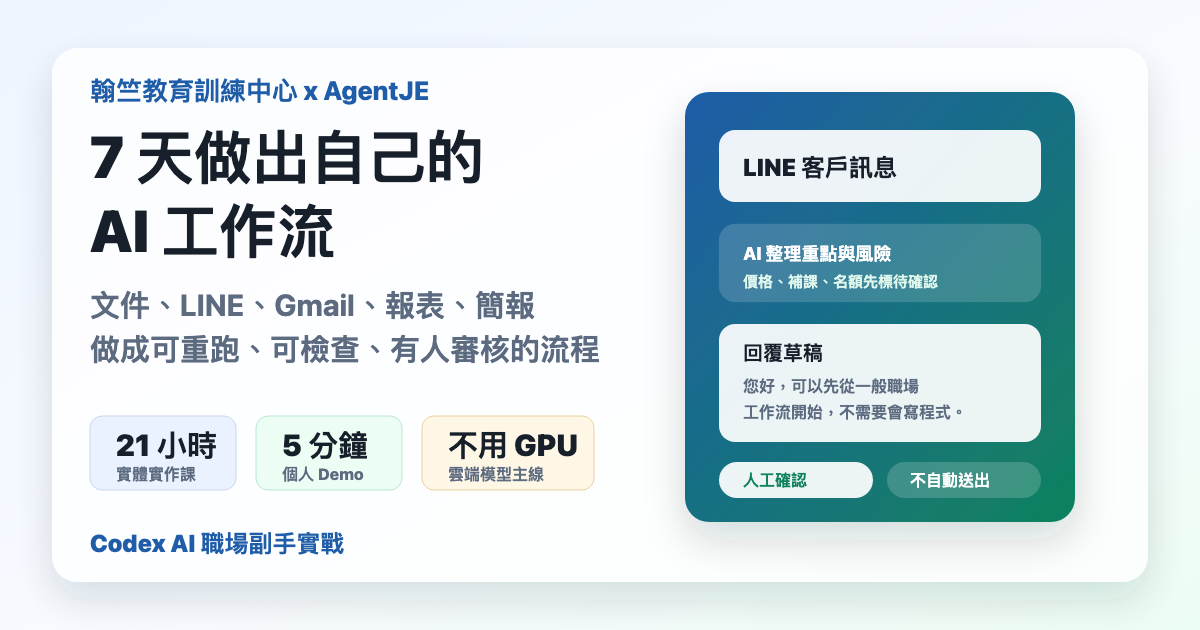
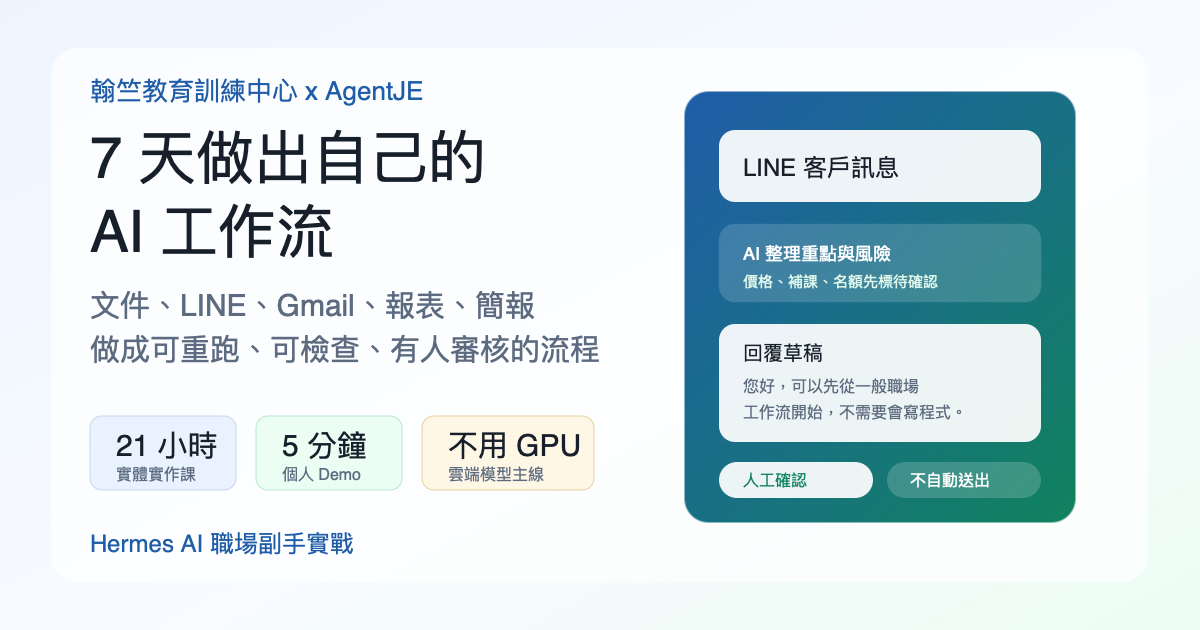
Update Hermes course preview

diff --git a/index.html b/index.html
@@ -4,8 +4,8 @@
   <meta charset="utf-8">
   <meta name="viewport" content="width=device-width, initial-scale=1">
   <script>document.documentElement.classList.replace("no-js", "js");</script>
-  <title>Hermes x Codex AI 職場副手實戰 | 翰竺教育訓練中心 x AgentJE</title>
-  <meta name="description" content="給第一次想用 Hermes 與 Codex 的職場新手。21 小時實體課，從 Hermes Desktop 應用程式開始，學會交辦、執行、檢查與安全交付。">
+  <title>Hermes AI 職場副手實戰 | 翰竺教育訓練中心 x AgentJE</title>
+  <meta name="description" content="給第一次想用 Hermes 做事的職場新手。21 小時實體課，從 Hermes Desktop 應用程式開始，學會開任務、選資料、檢查 AI 成果與安全交付。">
   <meta name="robots" content="index, follow">
   <meta name="theme-color" content="#1f5da8">
   <link rel="canonical" href="https://nrps9909.github.io/hanzhu-hermes-codex-course-preview/">
@@ -15,23 +15,23 @@
   <meta property="og:type" content="website">
   <meta property="og:locale" content="zh_TW">
   <meta property="og:site_name" content="翰竺教育訓練中心 x AgentJE">
-  <meta property="og:title" content="Hermes x Codex AI 職場副手實戰">
-  <meta property="og:description" content="不用先會寫程式。帶一台筆電，從 Hermes Desktop App 開始，學會用 Codex 做文件、報表、網站、回覆草稿與可重跑工作流。">
+  <meta property="og:title" content="Hermes AI 職場副手實戰">
+  <meta property="og:description" content="不用先會寫程式。帶一台筆電，從 Hermes Desktop App 開始，學會開任務、選資料、檢查成果與保存可重跑工作流。">
   <meta property="og:url" content="https://nrps9909.github.io/hanzhu-hermes-codex-course-preview/">
   <meta property="og:image" content="https://nrps9909.github.io/hanzhu-hermes-codex-course-preview/assets/course-landing-og.png">
   <meta property="og:image:secure_url" content="https://nrps9909.github.io/hanzhu-hermes-codex-course-preview/assets/course-landing-og.png">
   <meta property="og:image:type" content="image/png">
   <meta property="og:image:width" content="1200">
   <meta property="og:image:height" content="630">
-  <meta property="og:image:alt" content="Hermes x Codex AI 職場副手實戰課程分享圖">
+  <meta property="og:image:alt" content="Hermes AI 職場副手實戰課程分享圖">
   <meta name="twitter:card" content="summary_large_image">
-  <meta name="twitter:title" content="Hermes x Codex AI 職場副手實戰">
-  <meta name="twitter:description" content="21 小時實體課，讓 AI 新手用 Hermes 操作 Codex，做出自己的職場副手工作流。">
+  <meta name="twitter:title" content="Hermes AI 職場副手實戰">
+  <meta name="twitter:description" content="21 小時實體課，讓 AI 新手用 Hermes 開任務、看狀態、留紀錄，做出自己的職場副手工作流。">
   <meta name="twitter:image" content="https://nrps9909.github.io/hanzhu-hermes-codex-course-preview/assets/course-landing-og.png">
-  <meta name="twitter:image:alt" content="Hermes x Codex AI 職場副手實戰課程分享圖">
-  <script type="application/ld+json">{"@context":"https://schema.org","@type":"Course","name":"Hermes x Codex AI 職場副手實戰","courseCode":"HJ-AI-101","description":"21 小時實體實作課，給職場新手學會用 Hermes Desktop 操作 Codex，完成可檢查、可重跑、有人確認的 AI 工作成果。","inLanguage":"zh-Hant","provider":{"@type":"Organization","name":"翰竺教育訓練中心 x AgentJE","url":"http://www.itms.tw/ibmindex.jsp"},"timeRequired":"PT21H","educationalLevel":"Beginner","audience":{"@type":"Audience","audienceType":"行政、業務、客服、專案、主管與一般職場工作者"},"coursePrerequisites":"可自帶 Mac 或 Windows 筆電，能登入帳號、開瀏覽器並安裝基本工具。不需要先會寫程式。","teaches":["Hermes Desktop App 入門","Codex App 入門","Codex 任務交辦","任務票據","可重跑工作流","LINE 回覆草稿","Gmail 與文件整理","人工確認與資料安全"],"hasCourseInstance":{"@type":"CourseInstance","courseMode":"onsite","courseWorkload":"7 次課,每次 3 小時,共 21 小時","instructor":{"@type":"Person","name":"AgentJE"}},"@id":"https://nrps9909.github.io/hanzhu-hermes-codex-course-preview/#course","url":"https://nrps9909.github.io/hanzhu-hermes-codex-course-preview/","image":"https://nrps9909.github.io/hanzhu-hermes-codex-course-preview/assets/course-landing-og.png"}</script>
-    <script type="application/ld+json" id="webpage-structured-data">{"@context":"https://schema.org","@type":"WebPage","@id":"https://nrps9909.github.io/hanzhu-hermes-codex-course-preview/#webpage","url":"https://nrps9909.github.io/hanzhu-hermes-codex-course-preview/","name":"Hermes x Codex AI 職場副手實戰 | 翰竺教育訓練中心 x AgentJE","description":"21 小時實體課,把文件、LINE 回覆、Gmail、報表和簡報做成可重跑、可檢查、有人審核的 AI 工作流。","inLanguage":"zh-Hant","image":"https://nrps9909.github.io/hanzhu-hermes-codex-course-preview/assets/course-landing-og.png","isPartOf":{"@type":"WebSite","name":"翰竺教育訓練中心","url":"http://www.itms.tw/ibmindex.jsp"},"about":{"@id":"https://nrps9909.github.io/hanzhu-hermes-codex-course-preview/#course"},"publisher":{"@type":"Organization","name":"翰竺教育訓練中心 x AgentJE","url":"http://www.itms.tw/ibmindex.jsp","sameAs":["https://itms.kktix.cc/","https://www.facebook.com/ibmtrainingitms/"]}}</script>
-  <script type="application/ld+json" id="breadcrumb-structured-data">{"@context":"https://schema.org","@type":"BreadcrumbList","itemListElement":[{"@type":"ListItem","position":1,"name":"翰竺教育訓練中心","item":"http://www.itms.tw/ibmindex.jsp"},{"@type":"ListItem","position":2,"name":"Hermes x Codex AI 職場副手實戰","item":"https://nrps9909.github.io/hanzhu-hermes-codex-course-preview/"}]}</script>
+  <meta name="twitter:image:alt" content="Hermes AI 職場副手實戰課程分享圖">
+  <script type="application/ld+json">{"@context":"https://schema.org","@type":"Course","name":"Hermes AI 職場副手實戰","courseCode":"HJ-AI-101","description":"21 小時實體實作課，給職場新手學會用 Hermes Desktop App 開任務、選資料、檢查 AI 成果，完成可檢查、可重跑、有人確認的工作流。","inLanguage":"zh-Hant","provider":{"@type":"Organization","name":"翰竺教育訓練中心 x AgentJE","url":"http://www.itms.tw/ibmindex.jsp"},"timeRequired":"PT21H","educationalLevel":"Beginner","audience":{"@type":"Audience","audienceType":"行政、業務、客服、專案、主管與一般職場工作者"},"coursePrerequisites":"可自帶 Mac 或 Windows 筆電，能登入帳號、開瀏覽器並安裝基本工具。不需要先會寫程式。","teaches":["Hermes Desktop App 入門","Hermes 任務交辦","Codex 執行成果檢查","任務票據","可重跑工作流","LINE 回覆草稿","Gmail 與文件整理","人工確認與資料安全"],"hasCourseInstance":{"@type":"CourseInstance","courseMode":"onsite","courseWorkload":"7 次課,每次 3 小時,共 21 小時","instructor":{"@type":"Person","name":"AgentJE"}},"@id":"https://nrps9909.github.io/hanzhu-hermes-codex-course-preview/#course","url":"https://nrps9909.github.io/hanzhu-hermes-codex-course-preview/","image":"https://nrps9909.github.io/hanzhu-hermes-codex-course-preview/assets/course-landing-og.png"}</script>
+    <script type="application/ld+json" id="webpage-structured-data">{"@context":"https://schema.org","@type":"WebPage","@id":"https://nrps9909.github.io/hanzhu-hermes-codex-course-preview/#webpage","url":"https://nrps9909.github.io/hanzhu-hermes-codex-course-preview/","name":"Hermes AI 職場副手實戰 | 翰竺教育訓練中心 x AgentJE","description":"21 小時實體課,把文件、LINE 回覆、Gmail、報表和簡報做成可重跑、可檢查、有人審核的 AI 工作流。","inLanguage":"zh-Hant","image":"https://nrps9909.github.io/hanzhu-hermes-codex-course-preview/assets/course-landing-og.png","isPartOf":{"@type":"WebSite","name":"翰竺教育訓練中心","url":"http://www.itms.tw/ibmindex.jsp"},"about":{"@id":"https://nrps9909.github.io/hanzhu-hermes-codex-course-preview/#course"},"publisher":{"@type":"Organization","name":"翰竺教育訓練中心 x AgentJE","url":"http://www.itms.tw/ibmindex.jsp","sameAs":["https://itms.kktix.cc/","https://www.facebook.com/ibmtrainingitms/"]}}</script>
+  <script type="application/ld+json" id="breadcrumb-structured-data">{"@context":"https://schema.org","@type":"BreadcrumbList","itemListElement":[{"@type":"ListItem","position":1,"name":"翰竺教育訓練中心","item":"http://www.itms.tw/ibmindex.jsp"},{"@type":"ListItem","position":2,"name":"Hermes AI 職場副手實戰","item":"https://nrps9909.github.io/hanzhu-hermes-codex-course-preview/"}]}</script>
   <script type="application/ld+json" id="faq-structured-data">
   {
     "@context": "https://schema.org",
@@ -51,7 +51,7 @@
         "name": "上課要準備什麼?",
         "acceptedAnswer": {
           "@type": "Answer",
-          "text": "帶可以登入與安裝工具的筆電，準備 Hermes Desktop App 與 OpenAI / Codex 帳號。LINE、Gmail 或 Google Drive 是後續練習場景，不是第一天的壓力來源。"
+          "text": "帶可以登入與安裝工具的筆電，準備 Hermes Desktop App。模型帳號或 API key 依課前指引準備即可，LINE、Gmail 或 Google Drive 是後續練習場景，不是第一天的壓力來源。"
         }
       },
       {
@@ -633,7 +633,7 @@
   <header class="topbar">
     <div class="wrap topbar-inner">
       <a class="brand" href="#hero" aria-label="回到頁首">
-        Hermes x Codex AI 職場副手實戰
+        Hermes AI 職場副手實戰
         <small>翰竺教育訓練中心 x AgentJE</small>
       </a>
       <nav class="nav" aria-label="頁面導覽">
@@ -648,9 +648,9 @@
     <section id="hero" class="hero">
       <div class="wrap">
         <div class="hero-copy">
-          <p class="eyebrow">給第一次想用 Hermes 操作 Codex 做事的人</p>
-          <h1><span class="h1-line">Hermes x Codex</span><span class="h1-line">職場副手實戰</span></h1>
-          <p class="lead">這不是 CLI 安裝課。帶一台筆電，用 Hermes Desktop 把 Codex 跑起來，做文件、報表、網站、LINE 草稿與可重跑工作流。</p>
+          <p class="eyebrow">給第一次想用 Hermes 叫 AI 做事的人</p>
+          <h1><span class="h1-line">Hermes AI</span><span class="h1-line">職場副手實戰</span></h1>
+          <p class="lead">這不是 CLI 安裝課，也不是要學一堆 Codex 名詞。帶一台筆電，從 Hermes Desktop App 開始，學會開任務、選資料、看成果，把文件、報表、網站、LINE 草稿與可重跑工作流做出來。</p>
           <div class="actions">
             <a class="button" href="#reserve" data-track-action="reserve_hero" data-track-label="hero">先問我適不適合</a>
             <a class="button secondary" href="#outcomes" data-track-action="view_outcomes" data-track-label="hero">看 3 個成果</a>
@@ -658,8 +658,8 @@
           <p class="hero-note">課程資訊、日期、費用、補課與正式報名方式，以翰竺教育訓練中心公告為準。</p>
           <ul class="facts" aria-label="課程快照">
             <li>7 次課，共 21 小時</li>
-            <li>Hermes App 開始</li>
-            <li>Codex 負責實作</li>
+            <li>安裝改用 App</li>
+            <li>Hermes 使用主軸</li>
           </ul>
         </div>
       </div>
@@ -669,13 +669,13 @@
       <div class="wrap">
         <div class="section-head">
           <h2>上完先帶走 3 個 Hermes 使用能力。</h2>
-          <p>不要把時間耗在 CLI 安裝。先會用 Hermes 交辦任務、看懂 Codex 成果、把成功做法保存起來。</p>
+          <p>不要把時間耗在 CLI 安裝。先會用 Hermes 交辦任務、檢查 AI 成果、把成功做法保存起來。</p>
         </div>
         <div class="cards">
           <article class="card">
             <small>1</small>
             <h3>會用 Hermes 交辦</h3>
-            <p>說清楚目標、資料、限制和完成標準，讓 Hermes 把任務交給 Codex 處理。</p>
+            <p>說清楚目標、資料、限制和完成標準，讓 Hermes 把任務接住、執行、留下結果。</p>
           </article>
           <article class="card">
             <small>2</small>
@@ -685,7 +685,7 @@
           <article class="card">
             <small>3</small>
             <h3>會檢查和續跑</h3>
-            <p>看得懂 Hermes 任務狀態、Codex 改了什麼、下次要怎麼繼續或重跑。</p>
+            <p>看得懂 Hermes 任務狀態、AI 改了什麼、下次要怎麼繼續或重跑。</p>
           </article>
         </div>
       </div>
@@ -695,9 +695,9 @@
       <div class="wrap demo-layout">
         <div class="section-head">
           <h2>Hermes 要教，但不再把 CLI 安裝當主菜。</h2>
-          <p>Hermes Desktop 讓安裝變簡單，所以課程要把時間放在使用：怎麼開任務、怎麼讓 Codex 做事、怎麼看結果、怎麼保留人工確認。</p>
+          <p>Hermes Desktop 讓安裝變簡單，所以課程要把時間放在使用：怎麼開任務、怎麼選資料、怎麼看結果、怎麼保留人工確認。</p>
           <ul class="simple-list">
-            <li>Hermes 是操作入口，Codex 是實作引擎。</li>
+            <li>Hermes 是課程主軸，Codex 是背後執行能力。</li>
             <li>LINE、Gmail、表單是 Hermes 任務場景，不是第一天要全部串好的平台。</li>
             <li>留下任務紀錄、輸出檔或檢查表，課後能繼續用。</li>
           </ul>
@@ -718,7 +718,7 @@
         <div class="steps">
           <article class="step"><small>1</small><h3>選一個資料夾</h3><p>先把工作放到看得懂的位置，不讓學員迷路。</p></article>
           <article class="step"><small>2</small><h3>交辦給 Hermes</h3><p>用目標、資料、限制、完成標準說清楚。</p></article>
-          <article class="step"><small>3</small><h3>看懂 Codex 輸出</h3><p>檢查檔案、摘要、草稿、錯誤與風險，不盲信。</p></article>
+          <article class="step"><small>3</small><h3>檢查 AI 輸出</h3><p>檢查檔案、摘要、草稿、錯誤與風險，不盲信。</p></article>
           <article class="step"><small>4</small><h3>保存成流程</h3><p>把成功做法變成任務卡、規則、Skill 或 Hermes 工作流，方便下次繼續。</p></article>
         </div>
         <div class="days" aria-label="7 次課最小成果">
@@ -731,7 +731,7 @@
           <article class="day"><small>Day 7</small><h3>Demo</h3><p>展示工作流。</p></article>
         </div>
         <div class="fit-note" aria-label="適合與不適合">
-          <div>適合：想用 Hermes 操作 Codex 做出文件整理、報表、網站、小工具或回覆草稿，並保留人工確認。</div>
+          <div>適合：想用 Hermes 做出文件整理、報表、網站、小工具或回覆草稿，並保留人工確認。</div>
           <div>不適合：只想聽工具介紹，或期待上完就全自動導入公司系統。</div>
         </div>
       </div>
@@ -750,7 +750,7 @@
           </details>
           <details>
             <summary>上課要準備什麼?</summary>
-            <p>帶可以登入與安裝工具的筆電，準備 Hermes Desktop App 與 OpenAI / Codex 帳號。LINE、Gmail 或 Google Drive 是後續練習場景，不是第一天的壓力來源。</p>
+            <p>帶可以登入與安裝工具的筆電，準備 Hermes Desktop App。模型帳號或 API key 依課前指引準備即可，LINE、Gmail 或 Google Drive 是後續練習場景，不是第一天的壓力來源。</p>
           </details>
           <details>
             <summary>可以用自己的工作案例嗎?</summary>
@@ -768,12 +768,12 @@
       <div class="wrap reserve-layout">
         <div class="reserve-panel">
           <h2>想知道自己適不適合?</h2>
-          <p>先私訊，不用寫長表單。說你的角色、想改善的工作、目前有沒有用過 Hermes 或 Codex，就能先判斷從哪個場景開始。</p>
+          <p>先私訊，不用寫長表單。說你的角色、想改善的工作、目前有沒有用過 Hermes，就能先判斷從哪個場景開始。</p>
           <a class="button" href="https://nrps9909.github.io/hanzhu-hermes-codex-course-preview/register" target="_blank" rel="noopener" data-track-action="reserve_official" data-track-label="reserve">私訊預約課程</a>
           <p class="fineprint">點擊上方連結後，請以主辦方頁面或 LINE 官方帳號回覆為準。正式報名、日期、名額、費用、補課、證書、團報與候補，以主辦方公告為準。</p>
         </div>
         <aside class="message-box" aria-label="可複製預約訊息">
-          <p id="reserve-message">您好，我想詢問 Hermes x Codex AI 職場副手實戰。我的角色是：____。我目前有 / 沒有用過 Hermes 或 Codex。最想改善的工作是：文件 / 報表 / 網站小工具 / LINE / Gmail / 簡報 / 其他：____。不能碰的資料是：密碼 / 客戶個資 / 公司機密。請問這個場景適合上課練習嗎? 也想確認開課日期、費用、名額、補課或下一梯資訊。</p>
+          <p id="reserve-message">您好，我想詢問 Hermes AI 職場副手實戰。我的角色是：____。我目前有 / 沒有用過 Hermes。最想改善的工作是：文件 / 報表 / 網站小工具 / LINE / Gmail / 簡報 / 其他：____。不能碰的資料是：密碼 / 客戶個資 / 公司機密。請問這個場景適合上課練習嗎? 也想確認開課日期、費用、名額、補課或下一梯資訊。</p>
           <div class="copy-row js-only">
             <button class="button secondary" type="button" data-copy-target="reserve-message" data-track-action="copy_reserve_message" data-track-label="reserve">複製詢問訊息</button>
             <span class="copy-status" aria-live="polite"></span>
@@ -785,7 +785,7 @@
   </main>
 
   <footer>
-    <div class="wrap">HJ-AI-101 Hermes x Codex AI 職場副手實戰 | 翰竺教育訓練中心 x AgentJE | 課程資訊以主辦方公告為準</div>
+    <div class="wrap">HJ-AI-101 Hermes AI 職場副手實戰 | 翰竺教育訓練中心 x AgentJE | 課程資訊以主辦方公告為準</div>
   </footer>
   <nav class="mobile-cta" aria-label="手機快速操作">
     <a class="button secondary" href="#outcomes" data-track-action="view_outcomes_mobile" data-track-label="mobile-cta">看成果</a>
@@ -831,7 +831,7 @@
           event: "course_landing_action",
           ga4_event_name: target.dataset.trackAction?.startsWith("reserve") ? "generate_lead" : "select_content",
           course_code: "HJ-AI-101",
-          course_name: "Hermes x Codex AI 職場副手實戰",
+          course_name: "Hermes AI 職場副手實戰",
           action: target.dataset.trackAction,
           label: target.dataset.trackLabel || "",
           target_url: target.getAttribute("href") || ""

diff --git a/register/index.html b/register/index.html
@@ -4,7 +4,7 @@
   <meta charset="utf-8">
   <meta name="viewport" content="width=device-width, initial-scale=1">
   <meta name="robots" content="noindex,follow">
-  <title>Hermes x Codex AI 職場副手實戰 | 預約資料整理</title>
+  <title>Hermes AI 職場副手實戰 | 預約資料整理</title>
   <link rel="canonical" href="https://nrps9909.github.io/hanzhu-hermes-codex-course-preview/register">
   <link rel="icon" href="../assets/favicon.svg" type="image/svg+xml">
   <style>
@@ -158,7 +158,7 @@
 <body>
   <header>
     <div class="wrap top">
-      <div class="brand">Hermes x Codex AI 職場副手實戰</div>
+      <div class="brand">Hermes AI 職場副手實戰</div>
       <a href="https://nrps9909.github.io/hanzhu-hermes-codex-course-preview/">回課程介紹</a>
     </div>
   </header>
@@ -234,6 +234,7 @@
               <tr><th>付款方式</th><td>審閱版，不開放付款</td></tr>
               <tr><th>補課 / 錄影</th><td>審閱版，不開放報名 / 審閱版，不開放報名</td></tr>
               <tr><th>退費 / 候補</th><td>審閱版，不開放付款 / 審閱版，不開放報名</td></tr>
+              <tr><th>模型 / API key</th><td>審閱版，不提供模型帳號，也不收取模型費用。</td></tr>
             </tbody>
           </table>
           <p class="warning">正式報名、付款、退費、補課、錄影、證書、候補與團報，以主辦方最後公告為準。</p>
@@ -256,7 +257,7 @@
     const buildMessage = () => {
       const data = values();
       return [
-        "您好，我想詢問 " + "Hermes x Codex AI 職場副手實戰" + "。",
+        "您好，我想詢問 " + "Hermes AI 職場副手實戰" + "。",
         "姓名: " + data.name,
         "Email: " + data.email,
         "手機: " + data.phone,

diff --git a/register/thank-you/index.html b/register/thank-you/index.html
@@ -4,7 +4,7 @@
   <meta charset="utf-8">
   <meta name="viewport" content="width=device-width, initial-scale=1">
   <meta name="robots" content="noindex,follow">
-  <title>Hermes x Codex AI 職場副手實戰 | 已收到預約資料</title>
+  <title>Hermes AI 職場副手實戰 | 已收到預約資料</title>
   <link rel="canonical" href="https://nrps9909.github.io/hanzhu-hermes-codex-course-preview/register/thank-you/">
   <link rel="icon" href="../../assets/favicon.svg" type="image/svg+xml">
   <style>